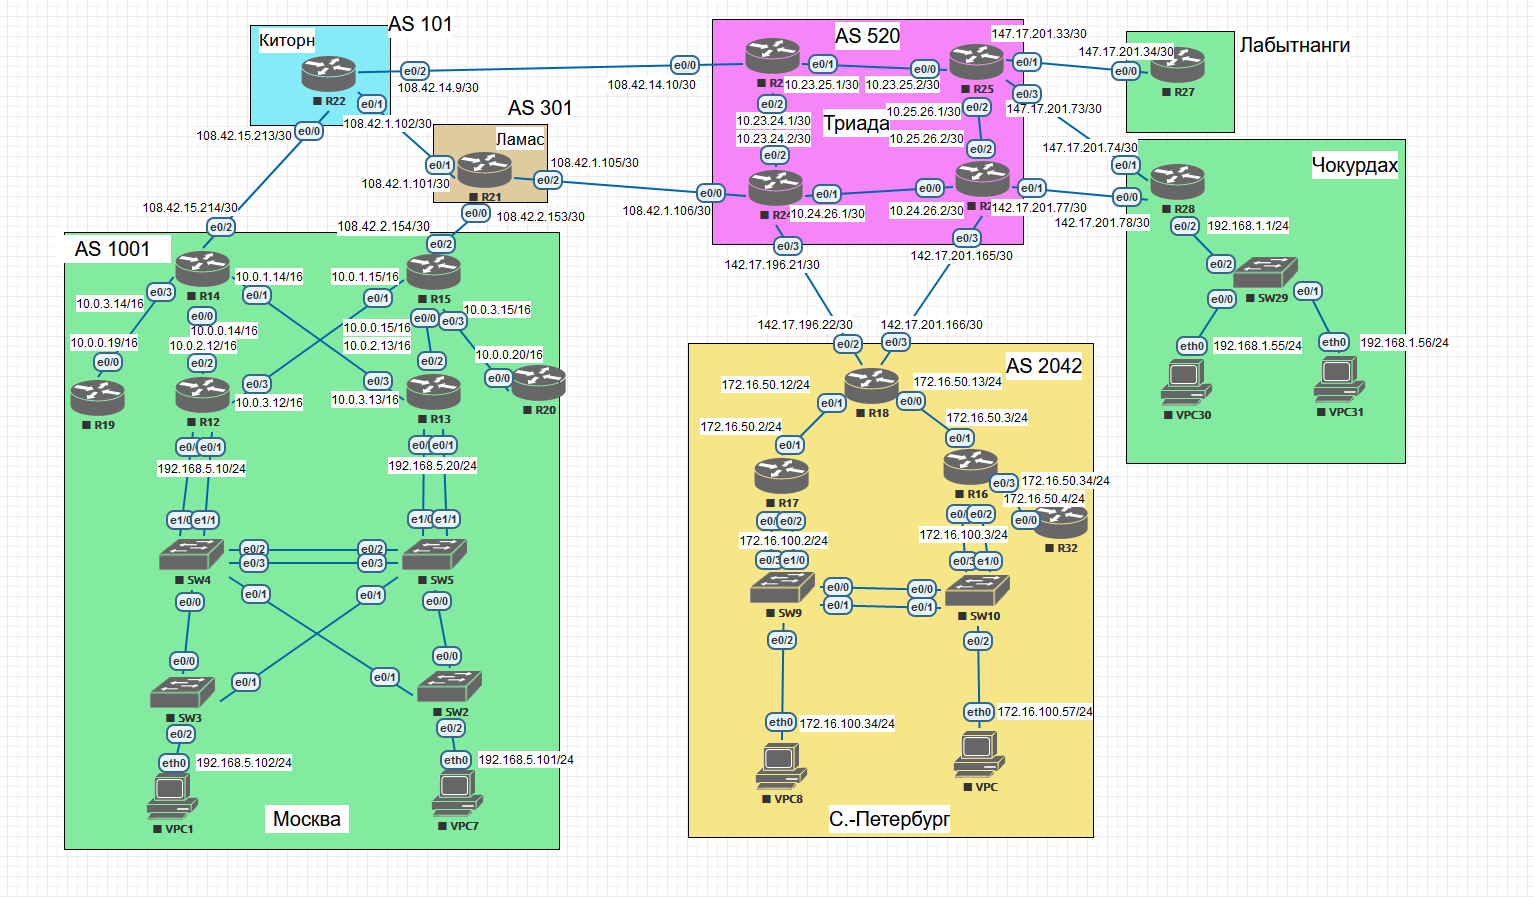
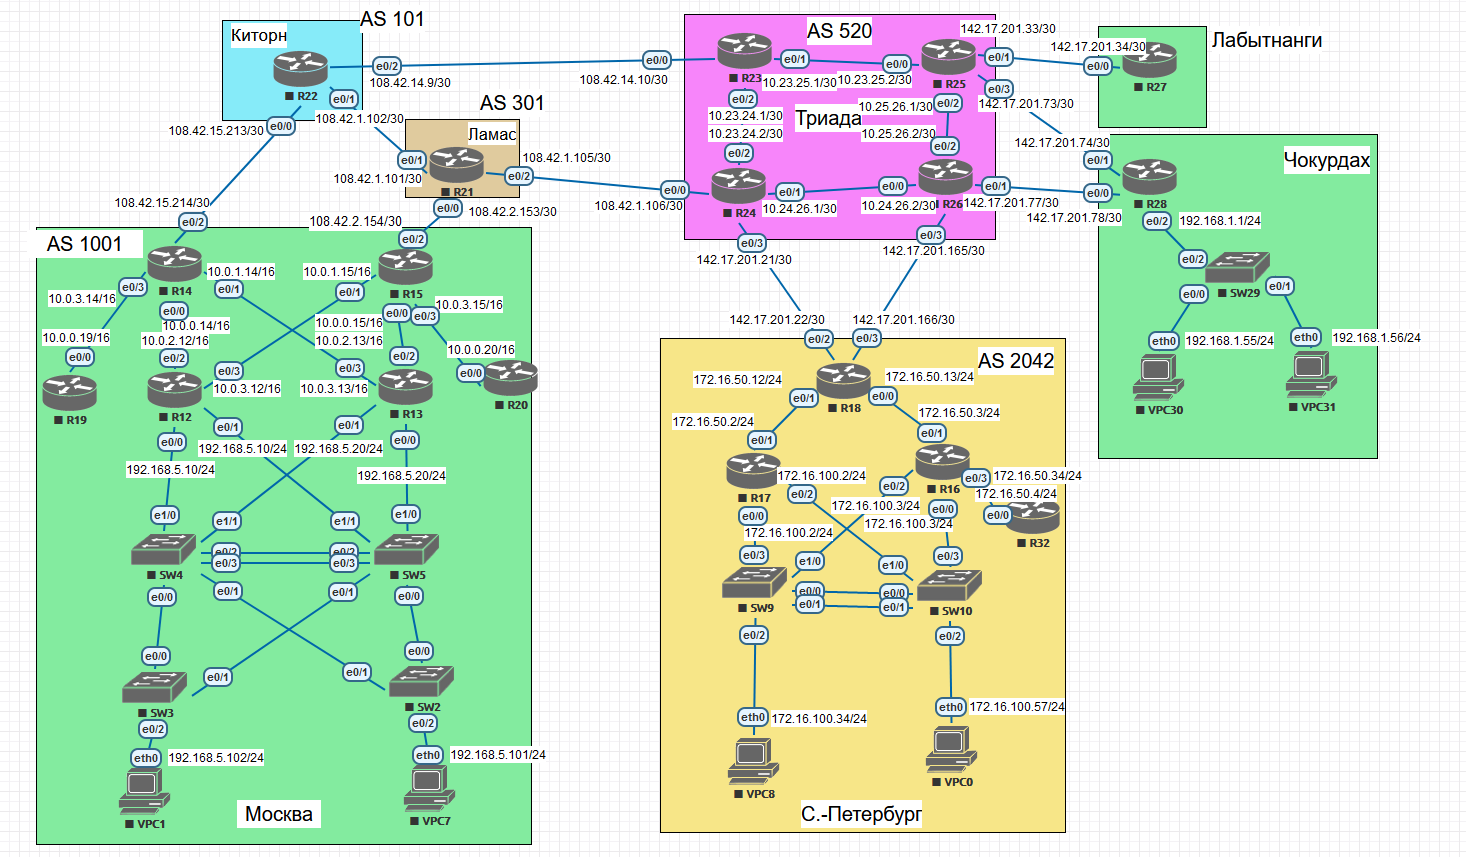
Fix Scheme

Changed region(s): [[0.0, 0.0, 0.9516, 1.0]]

diff --git a/Курсовая/IPTable.md b/Курсовая/IPTable.md
@@ -37,13 +37,13 @@
 |            |           |                  |              |                  |              |
 | R19        | e0/0      | 10.0.0.19/16     | R14          | 10.0.3.14/16     |              |
 |            |           |                  |              |                  |              |
-| R12        | e0/0      | 192.168.5.10/24  | SW4          | -                | Port-Channel |
-| R12        | e0/1      | 192.168.5.10/24  | SW4          | -                | Port-Channel |
+| R12        | e0/0      | 192.168.5.10/24  | SW4          | -                |              |
+| R12        | e0/1      | 192.168.5.10/24  | SW5          | -                |              |
 | R12        | e0/2      | 10.0.2.12/16     | R14          | 10.0.0.14/16     |              |
 | R12        | e0/3      | 10.0.3.12/16     | R15          | 10.0.1.15/16     |              |
 |            |           |                  |              |                  |              |
-| R13        | e0/0      | 192.168.5.20/24  | SW5          | -                | Port-Channel |
-| R13        | e0/1      | 192.168.5.20/24  | SW5          | -                | Port-Channel |
+| R13        | e0/0      | 192.168.5.20/24  | SW5          | -                |              |
+| R13        | e0/1      | 192.168.5.20/24  | SW4          | -                |              |
 | R13        | e0/2      | 10.0.2.13/16     | R15          | 10.0.0.15/16     |              |
 | R13        | e0/3      | 10.0.3.13/16     | R14          | 10.0.1.14/16     |              |
 |            |           |                  |              |                  |              |
@@ -53,15 +53,15 @@
 | SW4        | e0/1      | -                | SW2          | -                |              |
 | SW4        | e0/2      | -                | SW5          | -                | Port-Channel |
 | SW4        | e0/3      | -                | SW5          | -                | Port-Channel |
-| SW4        | e1/0      | -                | R12          | 192.168.5.10/24  | Port-Channel |
-| SW4        | e1/1      | -                | R12          | 192.168.5.10/24  | Port-Channel |
+| SW4        | e1/0      | -                | R12          | 192.168.5.10/24  |              |
+| SW4        | e1/1      | -                | R13          | 192.168.5.20/24  |              |
 |            |           |                  |              |                  |              |
 | SW5        | e0/0      | -                | SW2          |                  |              |
 | SW5        | e0/1      | -                | SW3          |                  |              |
 | SW5        | e0/2      | -                | SW4          | -                | Port-Channel |
 | SW5        | e0/3      | -                | SW4          | -                | Port-Channel |
-| SW5        | e1/0      | -                | R13          | 192.168.5.20/24  | Port-Channel |
-| SW5        | e1/1      | -                | R13          | 192.168.5.20/24  | Port-Channel |
+| SW5        | e1/0      | -                | R13          | 192.168.5.20/24  |              |
+| SW5        | e1/1      | -                | R12          | 192.168.5.10/24  |              |
 |            |           |                  |              |                  |              |
 | SW3        | e0/0      | -                | SW4          | -                |              |
 | SW3        | e0/1      | -                | SW3          | -                |              |
@@ -86,13 +86,13 @@
 | R18        | e0/2      | 142.17.201.22/30  | R24Триада    | 142.17.201.21/30  | Интернет     |
 | R18        | e0/3      | 142.17.201.166/30 | R26Триада    | 142.17.201.165/30 | Интернет     |
 |            |           |                   |              |                   |              |
-| R17        | e0/0      | 172.16.100.2/24   | SW9          | -                 | Port-Channel |
+| R17        | e0/0      | 172.16.100.2/24   | SW9          | -                 |              |
 | R17        | e0/1      | 172.162.50.2/24   | R18          | 172.16.50.12/24   |              |
-| R17        | e0/2      | 172.16.100.2/24   | SW9          | -                 | Port-Channel |
+| R17        | e0/2      | 172.16.100.2/24   | SW10         | -                 |              |
 |            |           |                   |              |                   |              |
-| R16        | e0/0      | 172.16.100.3/24   | SW10         | -                 | Port-Channel |
+| R16        | e0/0      | 172.16.100.3/24   | SW10         | -                 |              |
 | R16        | e0/1      | 172.16.50.3/24    | R18          | 172.16.50.13/24   |              |
-| R16        | e0/2      | 172.16.100.3/24   | SW10         | -                 | Port-Channel |
+| R16        | e0/2      | 172.16.100.3/24   | SW9          | -                 |              |
 | R16        | e0/3      | 172.16.50.34/24   | R32          |                   |              |
 |            |           |                   |              |                   |              |
 | R32        | e0/0      | 172.16.50.4/24    | R16          | 172.16.50.34/24   |              |
@@ -100,14 +100,14 @@
 | SW9        | e0/0      | -                 | SW10         | -                 | Port-Channel |
 | SW9        | e0/1      | -                 | SW10         | -                 | Port-Channel |
 | SW9        | e0/2      | -                 | VPC8         | 172.16.100.34/24  |              |
-| SW9        | e0/3      | -                 | R17          | 172.16.100.2/24   | Port-Channel |
-| SW9        | e1/0      | -                 | R17          | 172.16.100.2/24   | Port-Channel |
+| SW9        | e0/3      | -                 | R17          | 172.16.100.2/24   |              |
+| SW9        | e1/0      | -                 | R16          | 172.16.100.3/24   |              |
 |            |           |                   |              |                   |              |
 | SW10       | e0/0      | -                 | SW9          | -                 | Port-Channel |
 | SW10       | e0/1      | -                 | SW9          | -                 | Port-Channel |
 | SW10       | e0/2      | -                 | VPC0         | 172.16.100.57/24  |              |
-| SW10       | e0/3      | -                 | R16          | 172.16.100.3/24   | Port-Channel |
-| SW10       | e1/0      | -                 | R16          | 172.16.100.3/24   | Port-Channel |
+| SW10       | e0/3      | -                 | R16          | 172.16.100.3/24   |              |
+| SW10       | e1/0      | -                 | R17          | 172.16.100.2/24   |              |
 |            |           |                   |              |                   |              |
 | VPC8       | eth0      | 172.16.100.34/24  | SW9          | -                 |              |
 |            |           |                   |              |                   |              |
